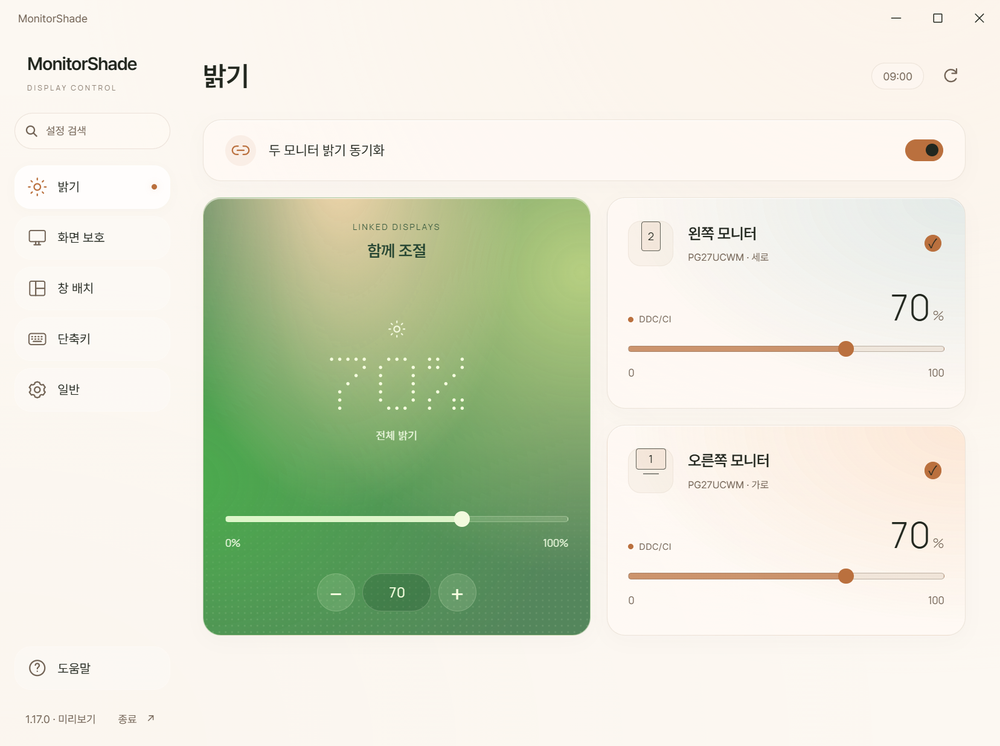
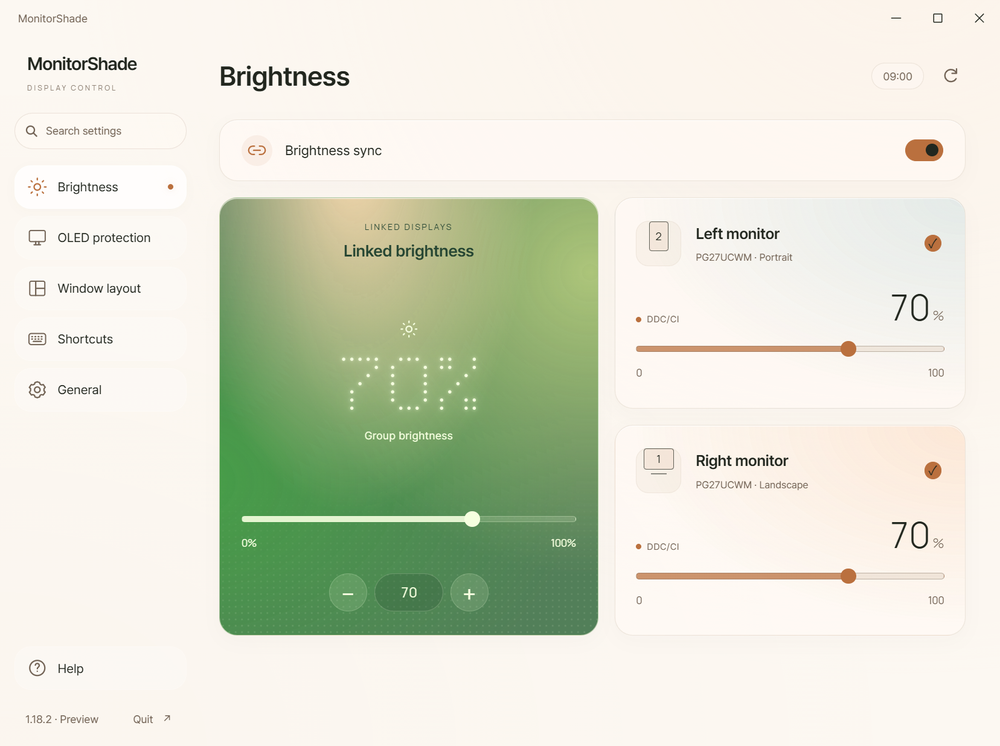
Refresh README recordings and downloads for 1.18.2

diff --git a/docs/tools/RecordUiDemos.cs b/docs/tools/RecordUiDemos.cs
@@ -48,20 +48,26 @@ internal static class RecordUiDemos
                 if (!(bool)ui.GetType().GetProperty("Ready", Instance).GetValue(ui, null)) throw new Exception("WebView2 did not become ready.");
                 core = (CoreWebView2)ui.GetType().GetProperty("Core", Instance).GetValue(ui, null);
                 await Task.Delay(1000);
-                await Script("document.querySelector('#AppearanceMode').value='1';document.querySelector('#AppearanceMode').dispatchEvent(new Event('change'));document.querySelector('#masterRange').value=45;document.querySelector('#masterRange').dispatchEvent(new Event('input',{bubbles:true}))");
+                await Script("document.querySelector('#Language').value='1';document.querySelector('#Language').dispatchEvent(new Event('change'));document.querySelector('#AppearanceMode').value='1';document.querySelector('#AppearanceMode').dispatchEvent(new Event('change'));document.querySelector('#masterRange').value=45;document.querySelector('#masterRange').dispatchEvent(new Event('input',{bubbles:true}))");
                 // WebView2 captures do not contain the DWM surface. Use the app's
                 // own background variable as the base, exactly as in its UI tests.
                 await Script("document.documentElement.style.background='rgb(var(--background))'");
                 await Task.Delay(1500);
                 await Check("monitorShadeState.preview && monitorShadeState.monitors.length===2", "Released app UI is in preview mode.");
+                await Check("document.documentElement.lang==='en'", "README captures use the English interface.");
                 await Check("monitorShadeState.monitors.every(m=>m.percent===45)", "Native brightness controller synchronized both demo monitors.");
                 await RecordBrightness();
                 await RecordTime();
                 foreach (var sample in new[] { new { Name = "morning", Hour = 9.0 }, new { Name = "day", Hour = 14.0 }, new { Name = "evening", Hour = 20.0 }, new { Name = "night", Hour = 0.0 } }) {
                     SetHour(sample.Hour); await Task.Delay(1500);
                     await Capture(Path.Combine(output, "appearance-" + sample.Name + ".png"));
+                    await Check("monitorShadeState.masterWarmth===" + (sample.Hour == 9 || sample.Hour == 14 ? "0" : "1"), sample.Name + " card uses the expected time-based colors.");
                 }
+                SetHour(9); await Script("monitorShadeNavigate('Layout')"); await Task.Delay(1500);
+                await Capture(Path.Combine(output, "window-layout.png"));
+                await Check("!document.querySelector('#Layout #layoutShortcutEditor') && !!document.querySelector('#Shortcuts #layoutShortcutEditor')", "Window bindings are in Shortcuts.");
                 await Check("!window.monitorShadeError", "No renderer errors during recording.");
+                report.Add("Source application: " + assembly.GetName().Version);
                 report.Add("Captured from the released EXE; preview monitors; accelerated local clock; DWM not included.");
                 result = 0;
             } catch (Exception error) { report.Add(error.ToString()); }

diff --git a/docs/tools/encode-demos.py b/docs/tools/encode-demos.py
@@ -28,7 +28,12 @@ for name, expected in (("brightness", 104), ("appearance", 160)):
         palette = frames[0].quantize(colors=256, method=Image.Quantize.MEDIANCUT)
         encoded = [frame.quantize(palette=palette, dither=Image.Dither.FLOYDSTEINBERG) for frame in frames]
     else:
-        encoded = [frame.quantize(colors=256, method=Image.Quantize.MEDIANCUT, dither=Image.Dither.NONE) for frame in frames]
+        # Remap to each frame's palette with dithering. Direct quantization makes
+        # the large orange/pink light field break into visible color bands.
+        encoded = []
+        for frame in frames:
+            palette = frame.quantize(colors=256, method=Image.Quantize.MEDIANCUT)
+            encoded.append(frame.quantize(palette=palette, dither=Image.Dither.FLOYDSTEINBERG))
     path = args.destination / f"{name}-demo.gif"
     encoded[0].save(
         path, save_all=True, append_images=encoded[1:], loop=0,
@@ -45,8 +50,8 @@ for name, expected in (("brightness", 104), ("appearance", 160)):
         assert check.n_frames > 20, (name, check.n_frames)
         print(f"{path.name}: {check.n_frames} frames, {duration} ms, {path.stat().st_size / 1048576:.2f} MiB")
 
-for name in ("morning", "day", "evening", "night"):
-    with Image.open(args.frames / f"appearance-{name}.png") as source:
+for name in ("appearance-morning", "appearance-day", "appearance-evening", "appearance-night", "window-layout"):
+    with Image.open(args.frames / f"{name}.png") as source:
         image = source.convert("RGB")
         image = image.resize((1000, round(image.height * 1000 / image.width)), Image.Resampling.LANCZOS)
-        image.save(args.destination / f"appearance-{name}.png", optimize=True)
+        image.save(args.destination / f"{name}.png", optimize=True)

diff --git a/README.md b/README.md
@@ -2,11 +2,11 @@
 
 # MonitorShade
 
-<a href="https://github.com/iismn/MonitorShade/releases/download/v1.17/MonitorShade.exe"><img src="docs/images/download-windows.svg" alt="Download MonitorShade 1.17 for Windows" width="260" height="56"></a>
+<a href="https://github.com/iismn/MonitorShade/releases/download/v1.18.2/MonitorShade.exe"><img src="docs/images/download-windows.svg" alt="Download MonitorShade 1.18.2 for Windows" width="260" height="56"></a>
 
-**1.17 · Windows 10 / 11 · x64**
+**1.18.2 · Windows 10 / 11 · x64**
 
-[Release notes](https://github.com/iismn/MonitorShade/releases/tag/v1.17) · [User guide](docs/user-guide.md) · [Issues](https://github.com/iismn/MonitorShade/issues)
+[Release notes](https://github.com/iismn/MonitorShade/releases/tag/v1.18.2) · [User guide](docs/user-guide.md) · [Issues](https://github.com/iismn/MonitorShade/issues)
 
 [Brightness](#brightness) · [OLED Protection](#oled-protection) · [Window Layout](#window-layout)
 
@@ -16,7 +16,7 @@
 
 ## Brightness
 
-![Linked brightness sliders and dot readout in MonitorShade 1.17](docs/images/brightness-demo.gif)
+![Linked brightness sliders and dot readout in MonitorShade 1.18.2](docs/images/brightness-demo.gif)
 
 <sub>Recorded in the app with demo monitors.</sub>
 
@@ -32,7 +32,7 @@ Per-monitor black overlay. Restores on mouse entry or screen changes. Supports a
 
 ## Window Layout
 
-![Window layout settings in MonitorShade 1.17](docs/images/window-layout.png)
+![Window layout settings in MonitorShade 1.18.2](docs/images/window-layout.png)
 
 | Default shortcut | Cycle |
 | --- | --- |
@@ -69,7 +69,7 @@ Windows 10 2004+ or Windows 11, x64, .NET Framework 4.8, and [Microsoft Edge Web
 - Brightness control requires DDC/CI support.
 - Desktop blur requires Windows 11 22H2+ with transparency effects enabled.
 
-1. [Download MonitorShade.exe](https://github.com/iismn/MonitorShade/releases/download/v1.17/MonitorShade.exe) to a writable folder.
+1. [Download MonitorShade.exe](https://github.com/iismn/MonitorShade/releases/download/v1.18.2/MonitorShade.exe) to a writable folder.
 2. Run the EXE. It starts in the system tray.
 3. Press **Ctrl + Alt + F11** to open settings.
 4. Select monitors and a timeout, then start monitoring.
@@ -92,6 +92,6 @@ Settings are stored beside the EXE in `MonitorShade.settings.xml`. To update, ex
 
 ---
 
-[Download 1.17](https://github.com/iismn/MonitorShade/releases/download/v1.17/MonitorShade.exe) · [User guide (Korean)](docs/user-guide.md) · [Build guide (Korean)](docs/technical-guide.md) · [Report an issue](https://github.com/iismn/MonitorShade/issues)
+[Download 1.18.2](https://github.com/iismn/MonitorShade/releases/download/v1.18.2/MonitorShade.exe) · [User guide (Korean)](docs/user-guide.md) · [Build guide (Korean)](docs/technical-guide.md) · [Report an issue](https://github.com/iismn/MonitorShade/issues)
 
 [Fonts](source/fonts/README.md) · [WebView2 notices](source/licenses) · [Demo recording source](docs/tools/README.md)

diff --git a/docs/user-guide.md b/docs/user-guide.md
@@ -2,9 +2,9 @@
 
 MonitorShade는 Windows용 모니터 관리 프로그램입니다. 화면 보호, DDC/CI 밝기 조절, 창 배치 기능을 제공합니다.
 
-현재 소스 버전: **1.18.2** · 공개 릴리즈: **1.17**
+현재 소스 버전: **1.18.2** · 공개 릴리즈: **1.18.2**
 
-[MonitorShade.exe 다운로드](https://github.com/iismn/MonitorShade/releases/download/v1.17/MonitorShade.exe) · [릴리즈 정보](https://github.com/iismn/MonitorShade/releases/tag/v1.17)
+[MonitorShade.exe 다운로드](https://github.com/iismn/MonitorShade/releases/download/v1.18.2/MonitorShade.exe) · [릴리즈 정보](https://github.com/iismn/MonitorShade/releases/tag/v1.18.2)
 
 ## 실행 조건
 
@@ -98,7 +98,7 @@ WebView2 Runtime이 없으면 [Microsoft 배포 페이지](https://developer.mic
 - 설정 창을 여는 동안 자동 감시를 일시정지합니다. 감시를 재개하려면 **감시 시작**을 누르세요.
 - 닫기 버튼은 설정 창을 트레이로 숨깁니다. 프로그램을 종료하려면 트레이 메뉴에서 **종료**를 선택하세요.
 
-화면 예시: [밝기](images/brightness-morning.png) · [저녁 색상](images/brightness-evening.png) · [창 배치](images/window-layout.png)
+화면 예시: [밝기](images/appearance-morning.png) · [저녁 색상](images/appearance-evening.png) · [창 배치](images/window-layout.png)
 
 화면 예시는 테스트용 모니터 정보로 촬영했습니다. 예시 이미지의 배경에는 고정 색상을 사용했습니다.
 

diff --git a/docs/tools/README.md b/docs/tools/README.md
@@ -1,9 +1,10 @@
 # README recordings
 
-The GIFs are recordings of MonitorShade 1.17's WebView2 settings UI.
+The GIFs are recordings of MonitorShade 1.18.2's WebView2 settings UI.
 The recorder loads the released EXE in its existing preview mode.
 No replacement UI, generated animation frames, or image crossfades are used.
 
+- Captures use the English interface.
 - Brightness changes pass through the normal UI event and native controller.
 - The monitors are preview devices. Recording does not send DDC/CI commands.
 - The appearance recording advances the app's preview clock through 24 hours.
@@ -22,10 +23,10 @@ python .\docs\tools\encode-demos.py .\.build\readme-recordings .\docs\images
 ```
 
 The encoder requires Pillow. Intermediate frames and validation results stay in
-`.build/readme-recordings`. Only the GIFs and four appearance stills are published.
+`.build/readme-recordings`. The GIFs, four appearance stills, and window-layout screenshot are published.
 
 Source EXE SHA-256:
 
 ```text
[2 lines of base64/hex data omitted]
 ```
